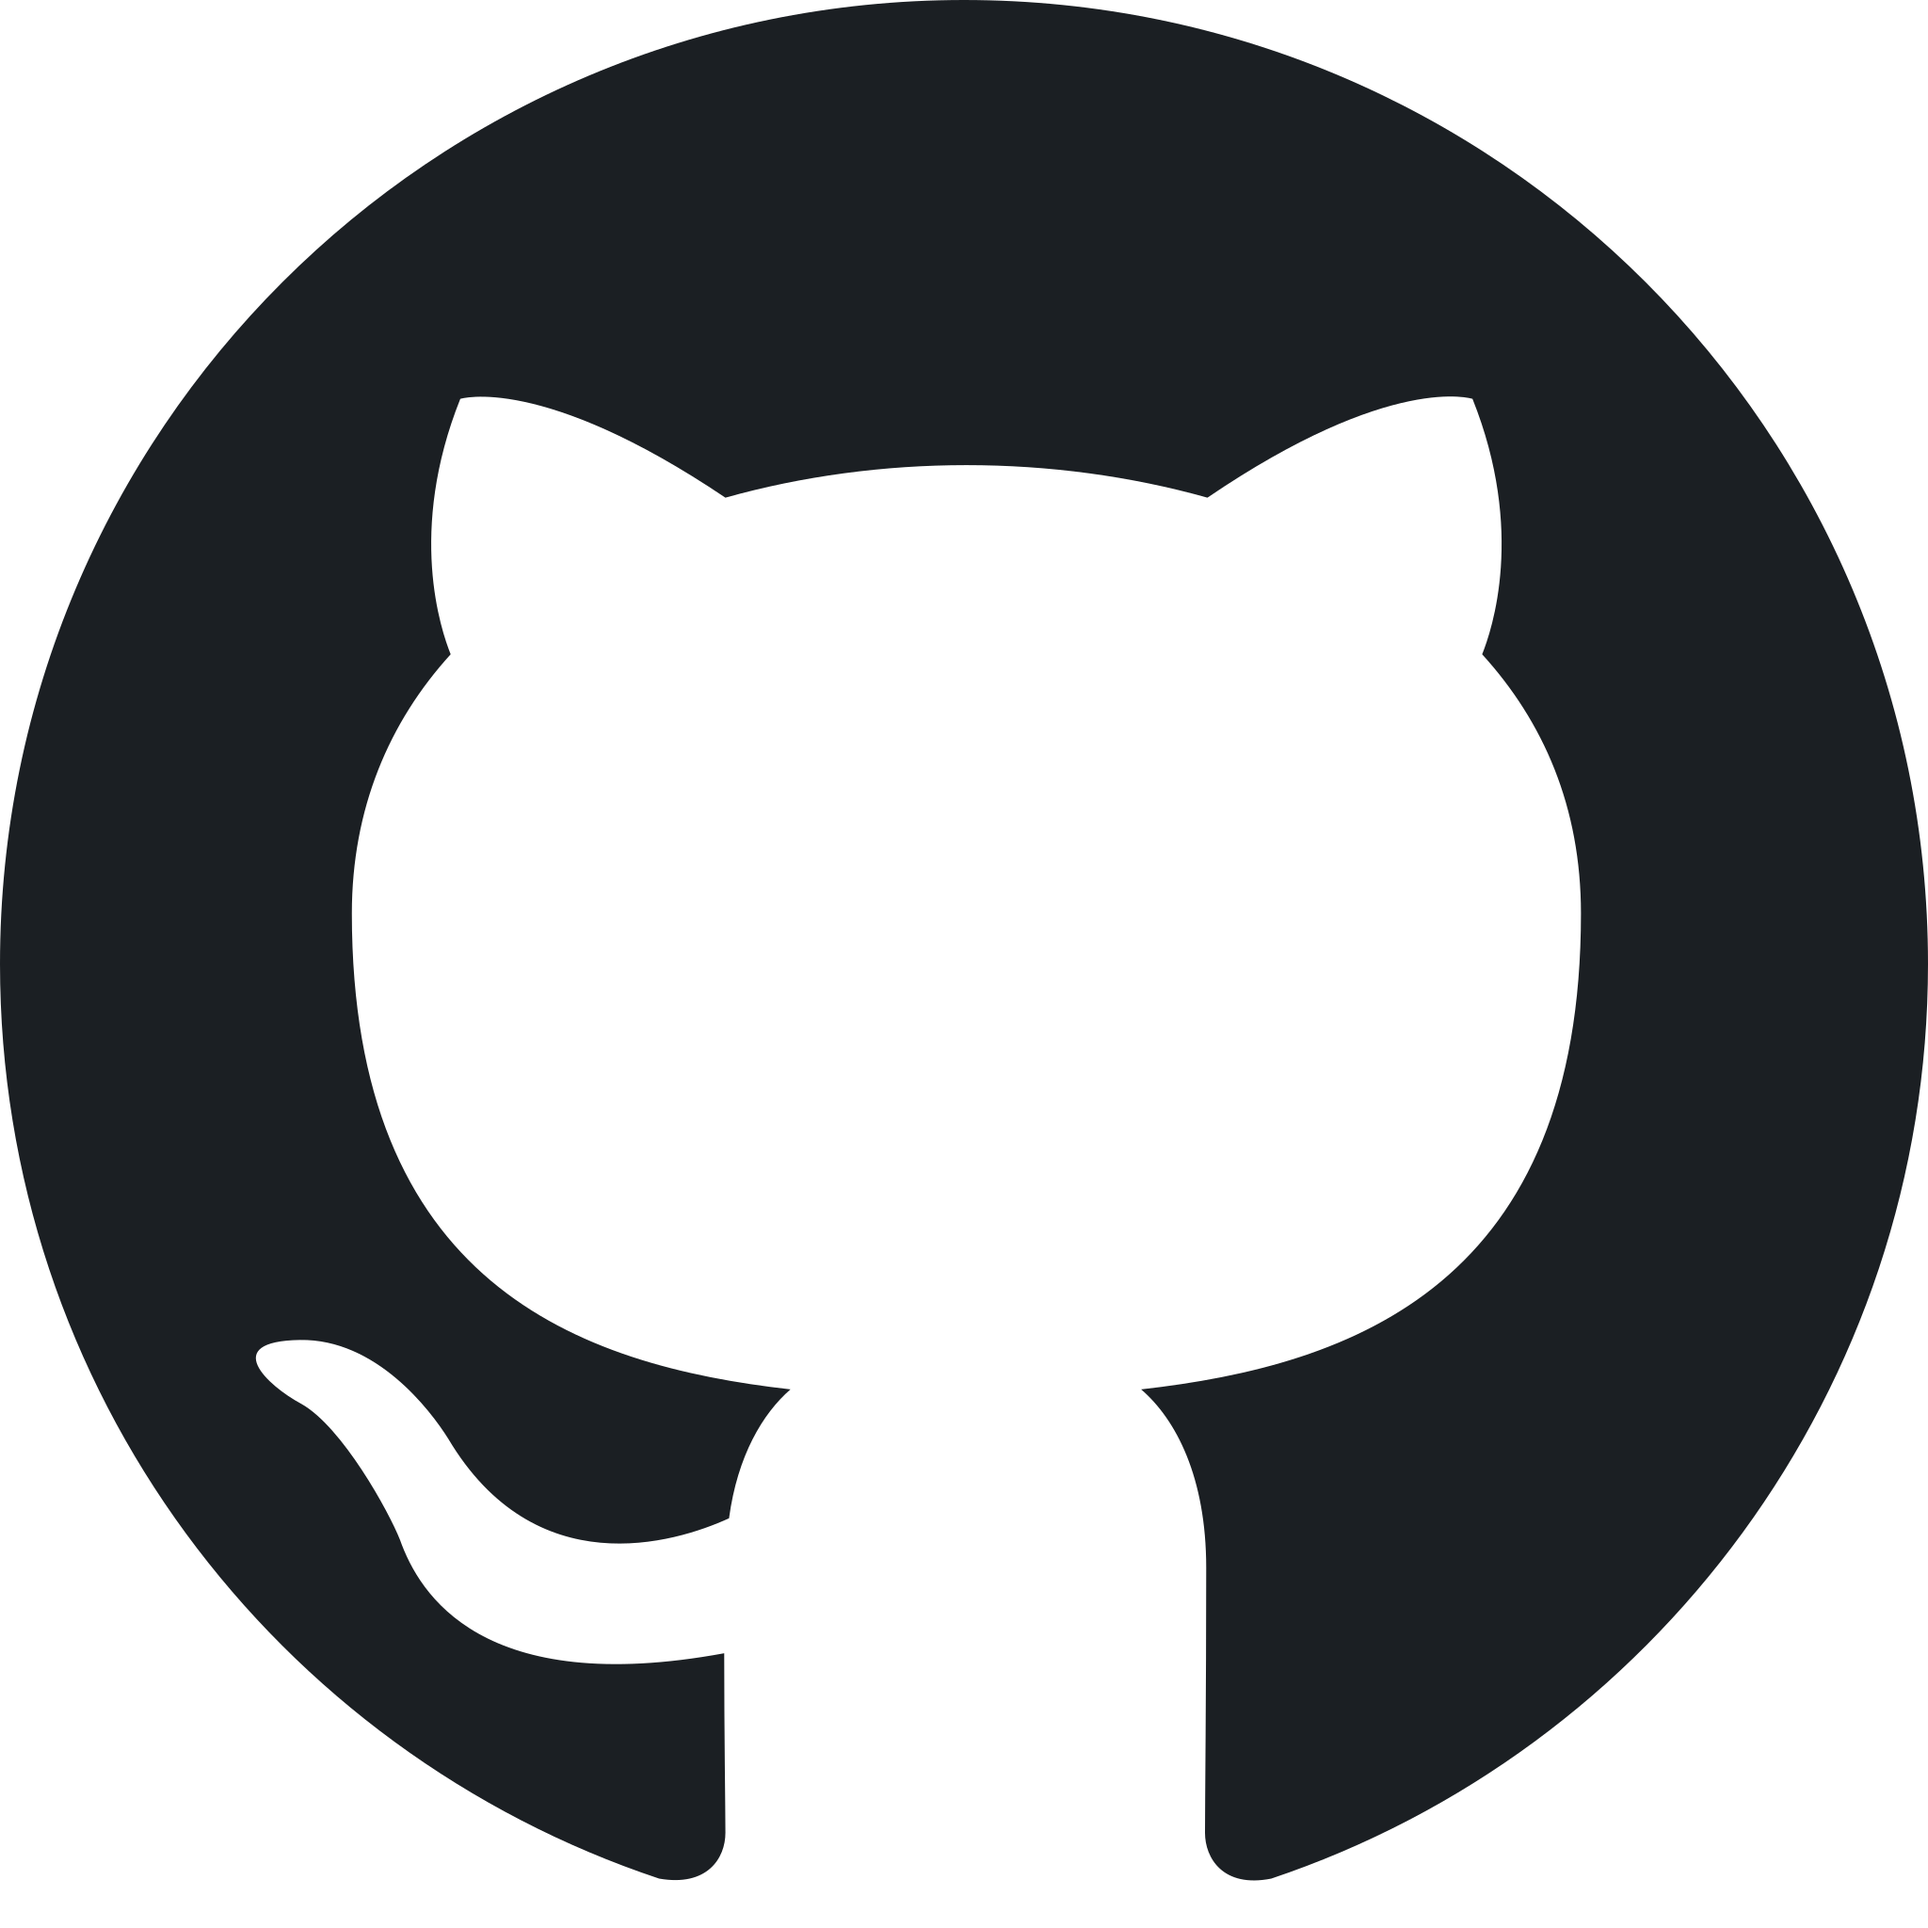
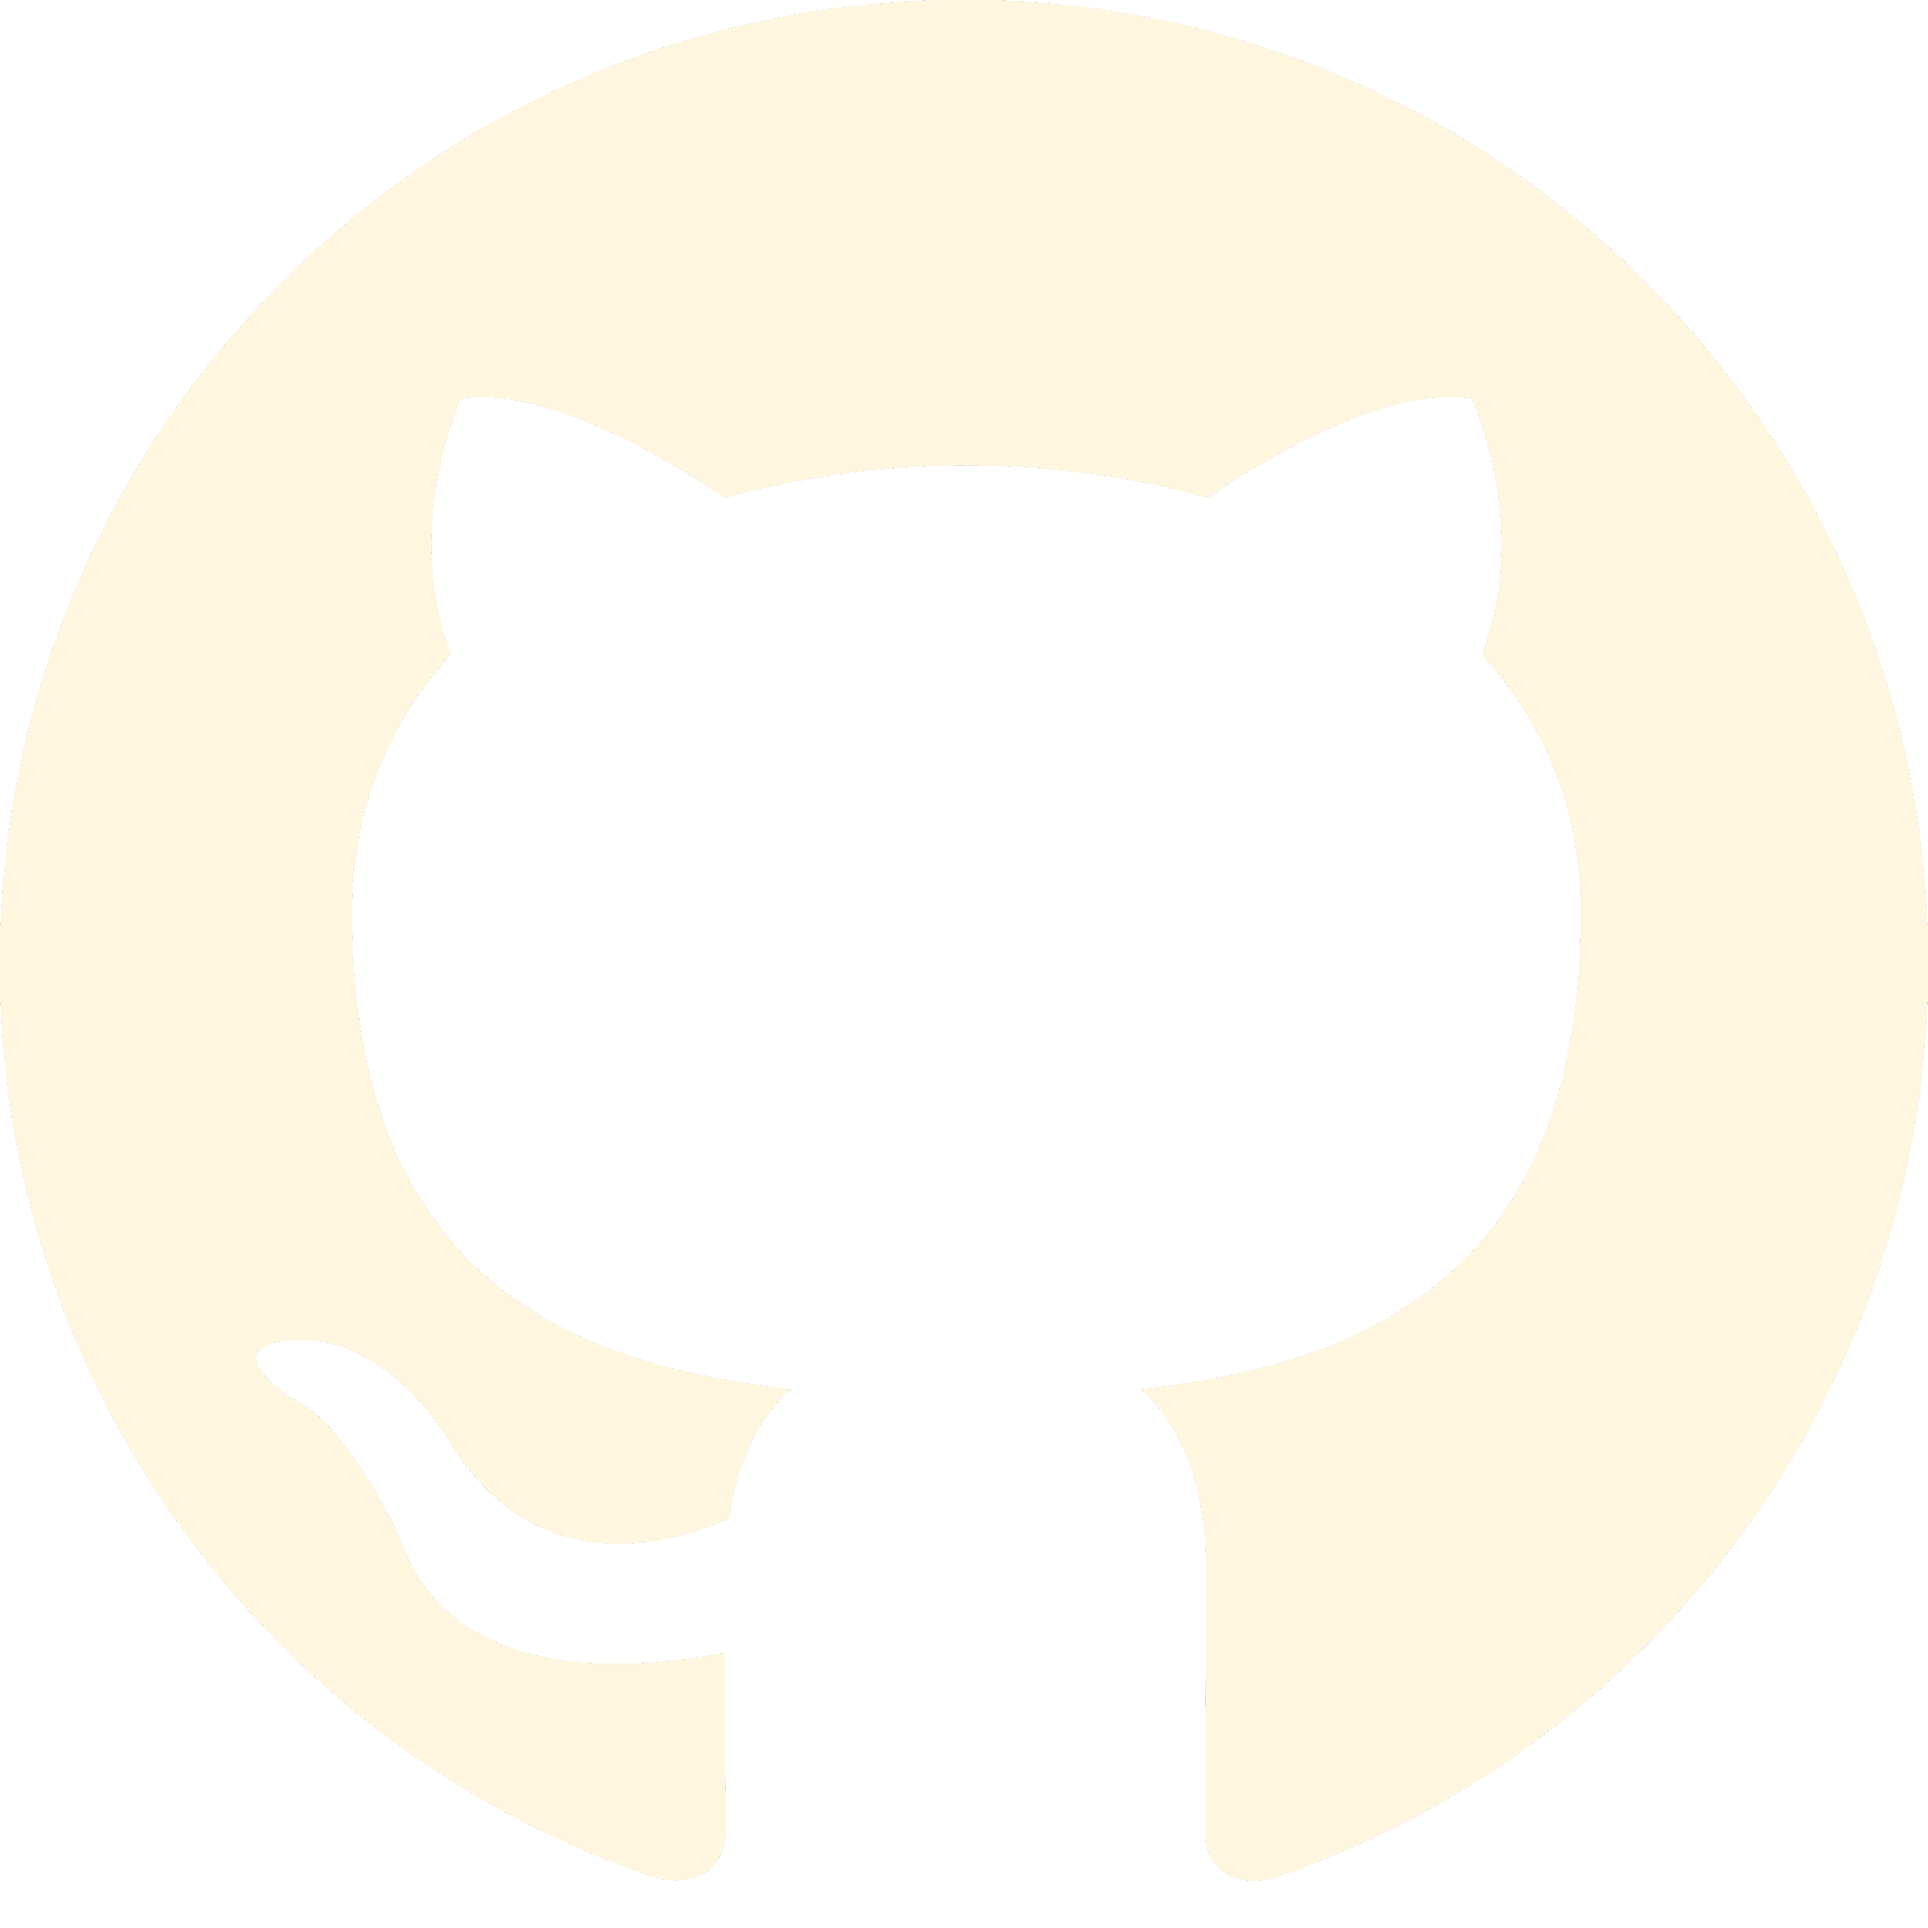
Added palette changes, New sections

diff --git a/style.css b/style.css
@@ -1,10 +1,9 @@
 :root {
-    --background: #010C13;
-    --white:      #FCFCFC;
-    --secondaryC: #5D737E;
-    --tertiaryC:  #372F36;
-  }
-
+    --pop:      #FFF6E0;
+    --tertiaryC:  #D8D9DA;
+    --secondaryC: #61677A;
+    --primary:       #272829;
+}
 *{
     margin: 0;
     padding: 0;
@@ -14,8 +13,8 @@
 
 
 body{
-    background: #010C13;
-    color:      #FCFCFC;
+    background: var(--primary);
+    color:      var(--pop);
 }
 
 #header{
@@ -23,11 +22,12 @@ body{
     height: 80px;
     background-size: cover;
     background-position: center;
+    position: fixed;
 }
 
 .container{
     padding: 20px 5%;
-    background-color: #FCFCFC;
+    background-color: var(--primary);
 }
 nav{
     display: flex;
@@ -49,23 +49,24 @@ nav ul li{
 }
 nav ul li a{
     text-decoration: none;
-    color: #010C13;
+    color: var(--pop);
     font-size: 1.2rem;
     transition: color .3s;
 }
 nav ul li a:hover{
-    color: #5D737E;
+    color: var(--tertiaryC);
 }
 
 .home{
-    height: 92vh;
+    height: 100vh;
     width: 100%;
     background-image: url(images/headerBG.jpg);
+    background-clip: content-box;
     background-size: cover;
 }
 
 .header-text .home-header{
-    padding-top: 15%;
+    padding-top: 20%;
     text-align: center;
     font-size: 450%;
     font-family: Arial, Helvetica, sans-serif;
@@ -77,5 +78,82 @@ nav ul li a:hover{
     font-size: 150%;
     font-family: 'Gill Sans', 'Gill Sans MT', Calibri, 'Trebuchet MS', sans-serif;
     font-weight: 100;
-    color: white;
+    color: var(--pop);
+}
+a.anchor {
+    display: block;
+    position: relative;
+    top: -80px;
+    visibility: hidden;
+}
+.about{
+    height: 100vh;
+    width: 100%;
+    background-color: var(--pop);
+    offset-anchor: -100;
+}
+
+.about .header-about{
+    padding-top: 2%;
+    font-size: 300%;
+    font-family: Arial, Helvetica, sans-serif;
+    font-weight: 600;
+    text-align: center;
+    letter-spacing: 1px;
+    color: var(--primary);
+}
+.about-Content{
+    padding-top: 4%;
+    padding-left: 15%;
+    padding-right: 8%;
+    display: flex;
+    font-size: 250%;
+    font-family: Arial, Helvetica, sans-serif;
+    font-weight: 600;
+    text-align: left;
+    color: var(--primary);
+}
+
+.about-Content .desc{
+    display: flex;
+    padding-top: 6%;
+    padding-right: 20%;
+    font-size: 80%;
+    font-weight: 250;
+    text-align: left;
+    line-height: 150%;
+    color: var(--secondaryC);
+}
+
+
+.projects{
+    height: 92vh;
+    width: 100%;
+    background-color: var(--pop);
+}
+
+.header-projects{
+    padding-top: 2%;
+    font-size: 300%;
+    font-family: Arial, Helvetica, sans-serif;
+    font-weight: 600;
+    text-align: center;
+    letter-spacing: 1px;
+    color: var(--primary);
+}
+
+.contact{
+    height: 92vh;
+    width: 100%;
+    background-color: var(--pop);
+}
+
+.header-contact{
+    padding-top: 2%;
+    font-size: 300%;
+    font-family: Arial, Helvetica, sans-serif;
+    font-weight: 600;
+    text-align: center;
+    letter-spacing: 1px;
+    color: var(--primary);
 }

diff --git a/index.html b/index.html
@@ -13,21 +13,57 @@
         <nav>
           <img src="images/github-icon.png" class="logo">
           <ul>
-            <li><a href="#">HOME</a></li>
-            <li><a href="#">ABOUT</a></li>
-            <li><a href="#">PROJECTS</a></li>
-            <li><a href="#">CONTACT</a></li>
+            <li><a href="#home">HOME</a></li>
+            <li><a href="#about">ABOUT</a></li>
+            <li><a href="#projects">PROJECTS</a></li>
+            <li><a href="#contact">CONTACT</a></li>
           </ul>
         </nav>
       </div>
 
     </div>
 
-    <section class="home">
+    <section class="home" id="home">
       <div class="header-text">
         <p class="home-header">HELLO, I'M JOSEPH CRUZ</p>
         <p class="home-description"> I am Software Engineer based in Sacramento, CA. I'm passionate <br>about creating new and unique projects. </p>
       </div>
     </section>
+
+    <a class="anchor" id="about"></a>
+    <section class="about">
+      <div class="header-about">
+        <p> ABOUT ME</p>
+      </div>
+      <div class="about-Content">
+        <div class="leftSide">
+          <p> Hello! </p>
+          <p class="desc"> Hello, I am a recently graduated computer science major from Sacramento State University. I have worked on multiple projects using many
+          languages, with my biggest project being an Mobile Application created for a client.
+        </p>
+        </div>
+        <div class="rightSide">
+          <p> SKILLS</p>
+          <p class="desc"> Hello, I am a recently graduated computer science major from Sacramento State University. I have worked on multiple projects using many
+            languages, with my biggest project being an Mobile Application created for a client.
+          </p>
+        </div>
+      </div>
+    </section>
+
+    <a class="anchor" id="projects"></a>
+    <section class="projects">
+      <div class="header-projects">
+        <p>PROJECTS</p>
+      </div>
+    </section>
+
+    <a class="anchor" id="contact"></a>
+    <section class="contact">
+      <div class="header-contact">
+        <p>CONTACT</p>
+      </div>
+    </section>
+
   </body>
 </html>
